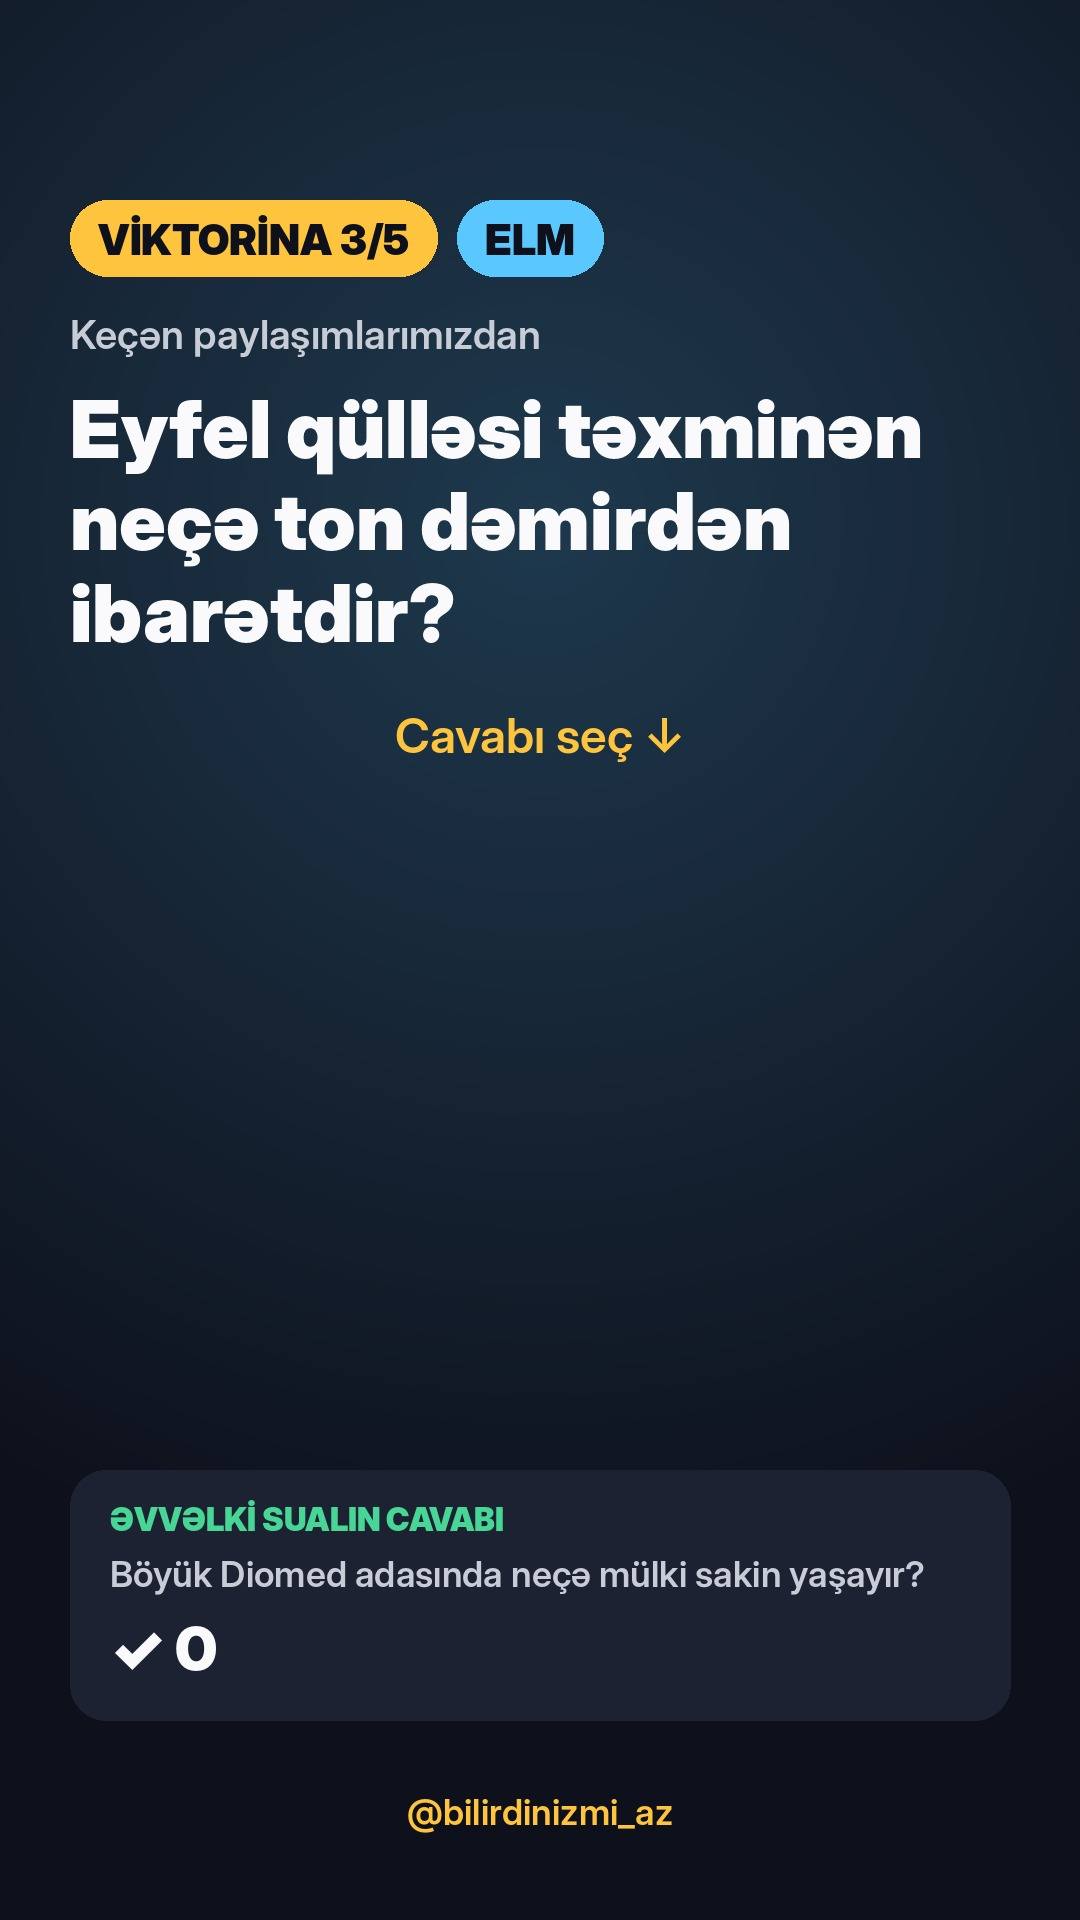
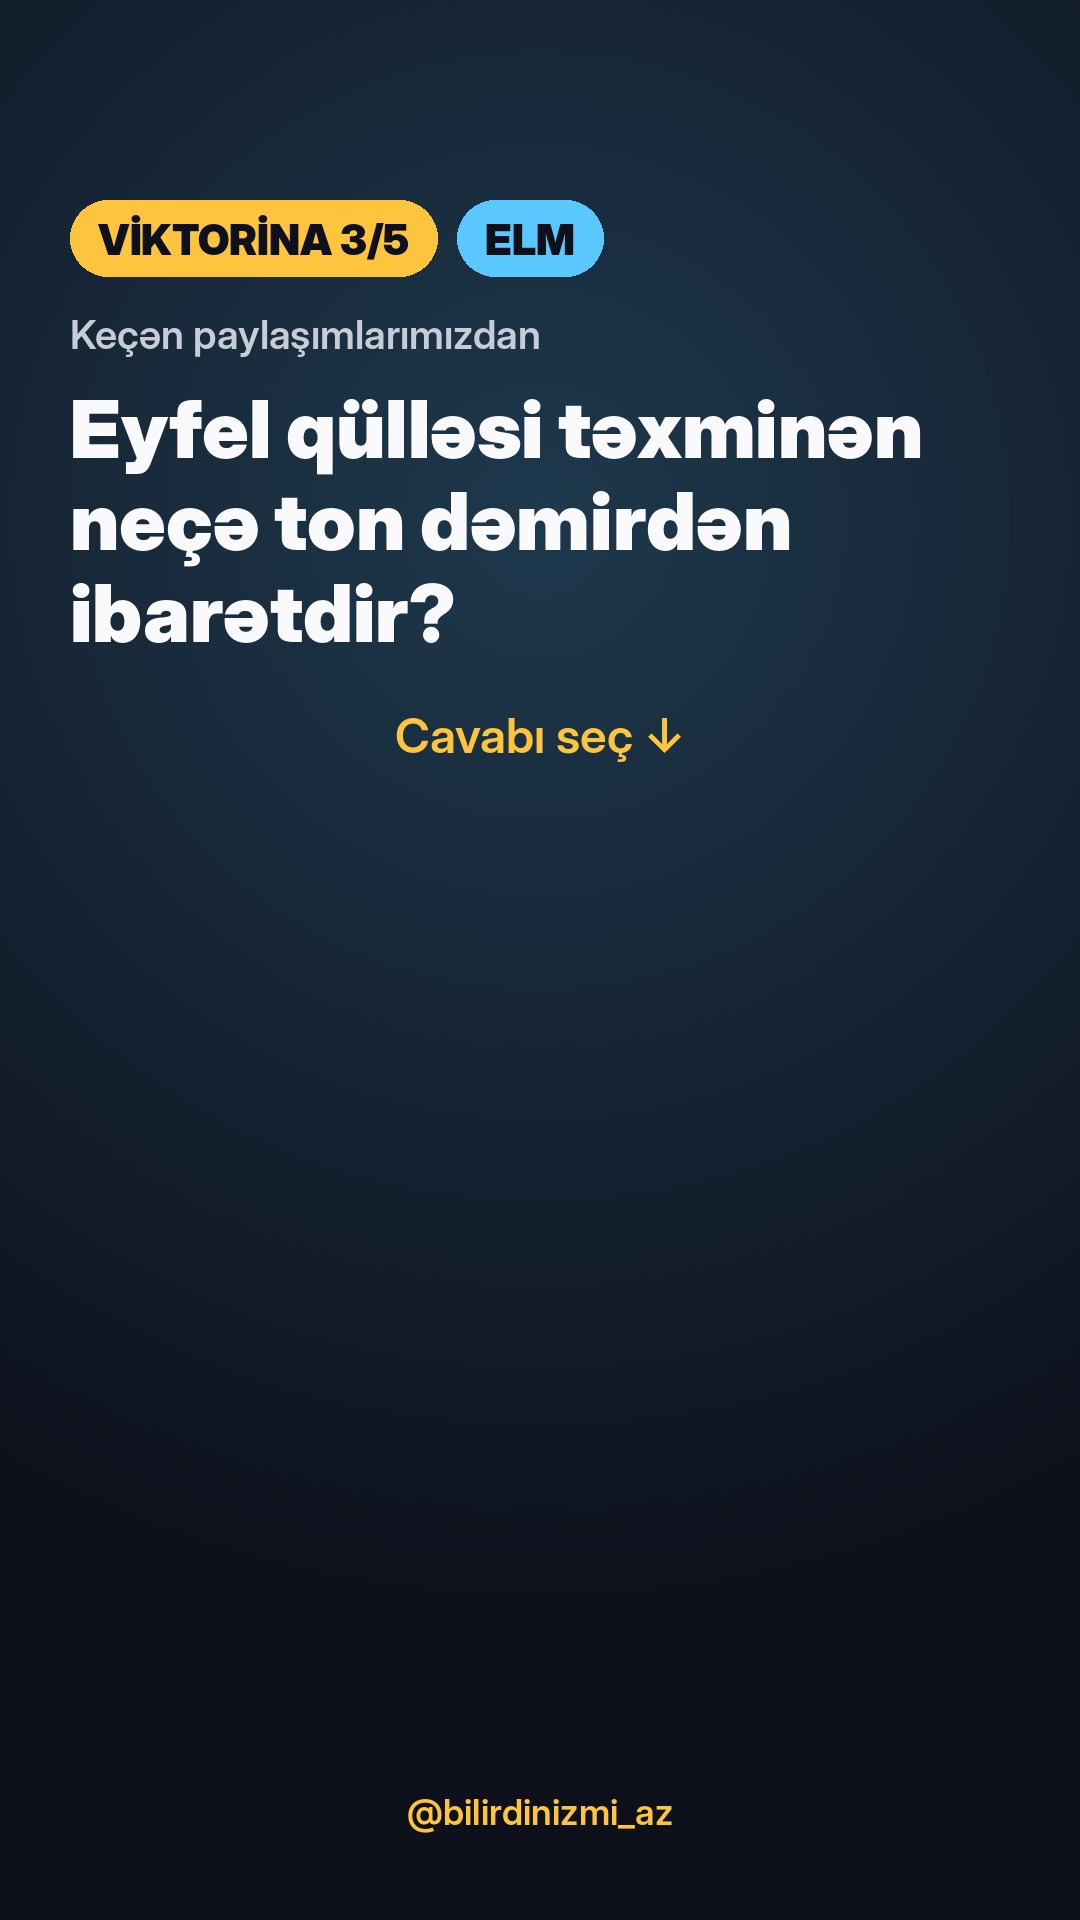
Quiz stories as question+answer pairs; answer explanations
Claude-Session: https://claude.ai/code/session_01PoetfAheiVJ4b9x4Dv9CQD

Changed region(s): [[0.0917, 0.7812, 0.8556, 0.875]]

diff --git a/quizplan.py b/quizplan.py
@@ -6,8 +6,8 @@ python3 quizplan.py YYYY-MM-DD [--seed N]
   facts/db.json (older posts, least recently quizzed first), so old posts keep getting attention.
 - Time order: 11:00 recall · 14:00 post 1 · 16:30 recall · 19:30 post 2 · 22:30 post 3
   (each post-quiz is ~1 hour after its post: posts are 13:00, 18:30, 21:30).
-- Every story shows the answer to the PREVIOUS story (the first one shows yesterday's last answer),
-  so no separate answer stories are needed.
+- Each quiz is TWO images posted together from one Metricool notification: qN.jpg (question, Gartal adds
+  the Poll sticker) and qN_a.jpg (answer + explanation) — viewers tap once to see the answer.
 - Writes "stories" into facts/<date>.json, adds today's facts to facts/db.json, renders out/<date>/qN.jpg.
 """
 import json, os, random, subprocess, sys
@@ -65,7 +65,7 @@ def main():
         q = e["quizzes"][qi]
         e["asked"].append({"date": D, "qi": qi})
         stories.append({"time": t, "fact_id": e["id"], "recall": src == "recall", "cat": e["cat"],
-                        "q": q["q"], "options": q["options"], "answer": q["answer"]})
+                        "q": q["q"], "options": q["options"], "answer": q["answer"], "why": q.get("why", "")})
 
     # 3) previous-answer chain
     prev_day = (date.fromisoformat(D) - timedelta(days=1)).isoformat()
@@ -79,12 +79,14 @@ def main():
 
     os.makedirs(os.path.join(ROOT, f"out/{D}"), exist_ok=True)
     for i, s in enumerate(stories, 1):
-        cfg = {"n": f"{i}/5", "cat": s["cat"], "q": s["q"], "prev": prev, "recall": s["recall"]}
-        out = f"out/{D}/q{i}.jpg"
+        cfg = {"n": f"{i}/5", "cat": s["cat"], "q": s["q"], "prev": None, "recall": s["recall"]}
+        out = f"out/{D}/q{i}.jpg"; outa = f"out/{D}/q{i}_a.jpg"
         subprocess.run([sys.executable, os.path.join(ROOT, "factgen.py"), "quizstory", "none",
                         os.path.join(ROOT, out), json.dumps(cfg, ensure_ascii=False)], check=True)
-        s["image"] = out
-        prev = {"q": s["q"], "a": s["answer"]}
+        acfg = {"n": f"{i}/5", "cat": s["cat"], "q": s["q"], "a": s["answer"], "why": s["why"]}
+        subprocess.run([sys.executable, os.path.join(ROOT, "factgen.py"), "answerstory", "none",
+                        os.path.join(ROOT, outa), json.dumps(acfg, ensure_ascii=False)], check=True)
+        s["image"] = out; s["answer_image"] = outa
 
     day["stories"] = stories
     save(f"facts/{D}.json", day); save("facts/db.json", db)

diff --git a/factgen.py b/factgen.py
@@ -228,8 +228,34 @@ def quizstory(photo, out, c):
     d.text(((W - d.textlength(HANDLE, font=F("SemiBold", 36))) / 2, 1790), HANDLE, font=F("SemiBold", 36), fill=GOLD)
     im.save(out, quality=92)
 
+# ---------- answer card shown right after the quiz story (same notification) ----------
+def answerstory(photo, out, c):
+    """c: {"n":"2/5","cat":..,"q":..,"a":..,"why":..}"""
+    W, H = 1080, 1920
+    col = CAT_COL.get(c.get("cat"), GOLD); GREEN = (72, 214, 150)
+    im = Image.new("RGB", (W, H), INK); d = ImageDraw.Draw(im)
+    for r in range(1100, 0, -14):
+        a = (1 - r / 1100); d.ellipse([540 - r, 760 - r, 540 + r, 760 + r],
+                                      fill=tuple(int(INK[i] + (GREEN[i] - INK[i]) * 0.2 * a) for i in range(3)))
+    pill(d, 70, 200, f"CAVAB {c['n']}", F("Black", 42), GREEN, INK)
+    x = 70 + d.textlength(f"CAVAB {c['n']}", font=F("Black", 42)) + 56 + 20
+    pill(d, x, 200, c.get("cat", "Fakt").upper(), F("Black", 42), col, INK)
+    y = text_block(d, 70, 360, c["q"], F("Bold", 56), (200, 204, 215), W - 140)
+    fa = F("Black", 104 if len(c["a"]) <= 12 else 76)
+    al = wrap(d, "✓ " + c["a"], fa, W - 220)
+    bh = len(al) * fa.size * 1.15 + 110
+    d.rounded_rectangle([70, y + 60, W - 70, y + 60 + bh], 44, fill=GREEN)
+    yy = y + 60 + 55
+    for ln in al:
+        d.text(((W - d.textlength(ln, font=fa)) / 2, yy), ln, font=fa, fill=INK); yy += fa.size * 1.15
+    text_block(d, 70, y + 60 + bh + 70, c.get("why", ""), F("SemiBold", 54), WHITE, W - 140, lh=1.25)
+    msg = "Sən düz tapdın?"
+    d.text(((W - d.textlength(msg, font=F("Black", 60))) / 2, 1600), msg, font=F("Black", 60), fill=GOLD)
+    d.text(((W - d.textlength(HANDLE, font=F("SemiBold", 36))) / 2, 1790), HANDLE, font=F("SemiBold", 36), fill=GOLD)
+    im.save(out, quality=92)
+
 if __name__ == "__main__":
     kind, photo, out, cfg = sys.argv[1], sys.argv[2], sys.argv[3], json.loads(sys.argv[4])
     dict(card=card, reel=reel, story=story, answer=answer, slide=slide, outro=outro,
-         quizstory=quizstory)[kind](photo, out, cfg)
+         quizstory=quizstory, answerstory=answerstory)[kind](photo, out, cfg)
     print(out)
